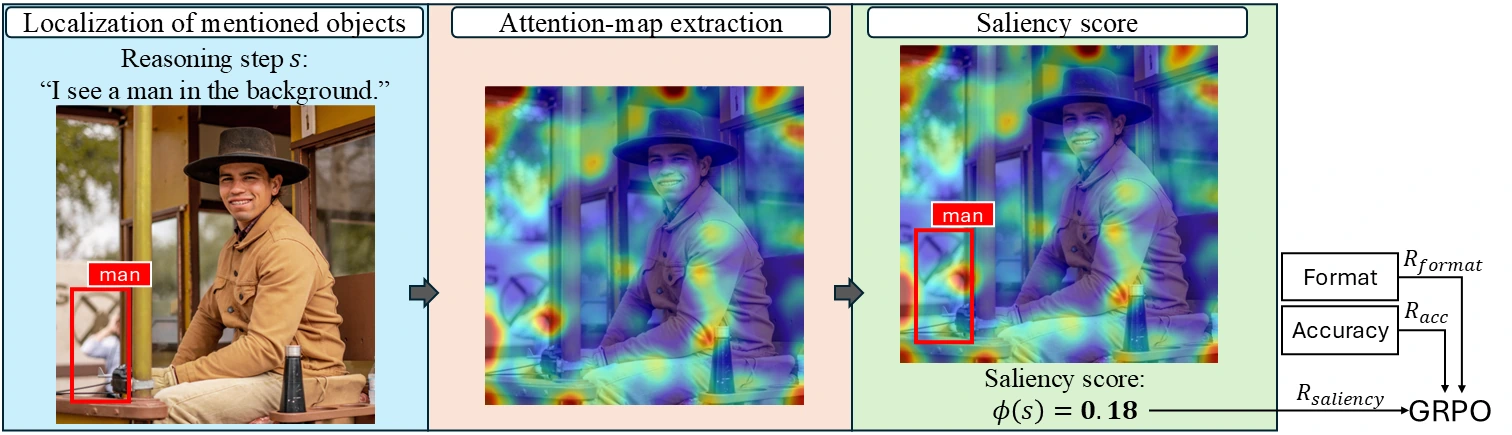
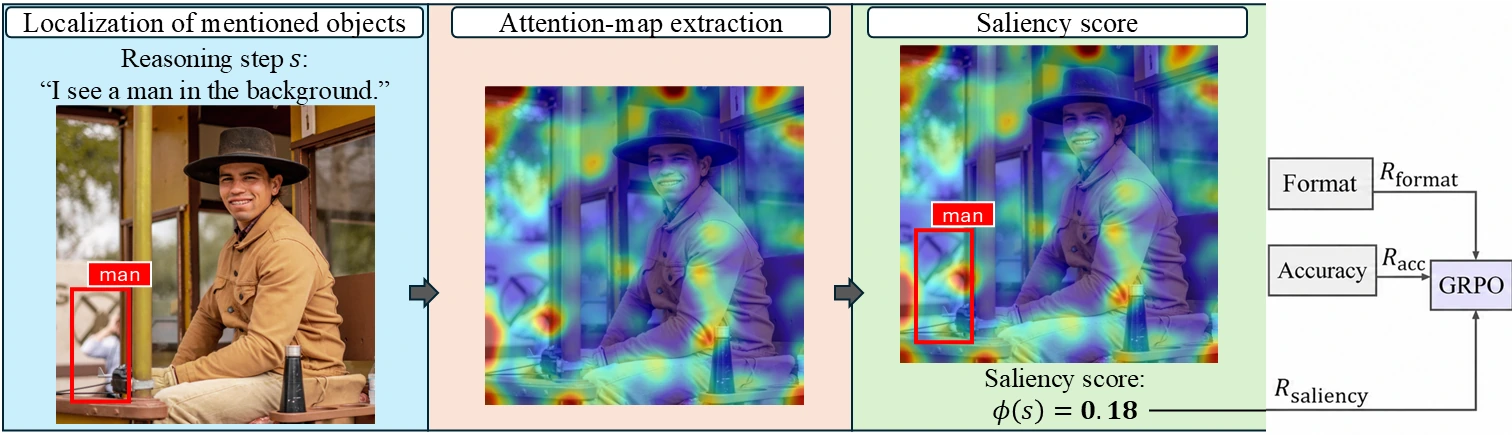
TL;DR gets the margin, and the refreshed pipeline figure
The closing sentence now names the gap rather than saying "outperforms recent
baselines". Both halves check out against the results table on the same page:
64.3 is the highest mean of the seven methods, and 64.3 - 61.1 = 3.2 against
vanilla Qwen3-VL.

fig2.webp re-imported from the updated pipeline_with_rewards.png: same
1512x435, reward boxes now shaded with GRPO picked out, subscripts upright.

Changed region(s): [[0.8393, 0.0, 1.0, 0.9862]]

diff --git a/index.html b/index.html
@@ -90,9 +90,10 @@
       We introduce <b>Self-Saliency</b>, a method for aligning <b>where a model
       looks</b> with <b>what it talks about</b>. Self-Saliency uses a grounding
       model to localize the objects mentioned in each reasoning step, and treats
-      the resulting regions as supervision for the model's visual attention. On
-      a broad suite of 25 visual reasoning benchmarks, it outperforms recent
-      baselines.
+      the resulting regions as supervision for the model's visual attention.
+      Across a broad suite of 25 visual reasoning benchmarks, Self-Saliency
+      surpasses all previous baselines and outperforms the vanilla model by 3.2
+      points on average.
     </p>
   </div>
 </section>
